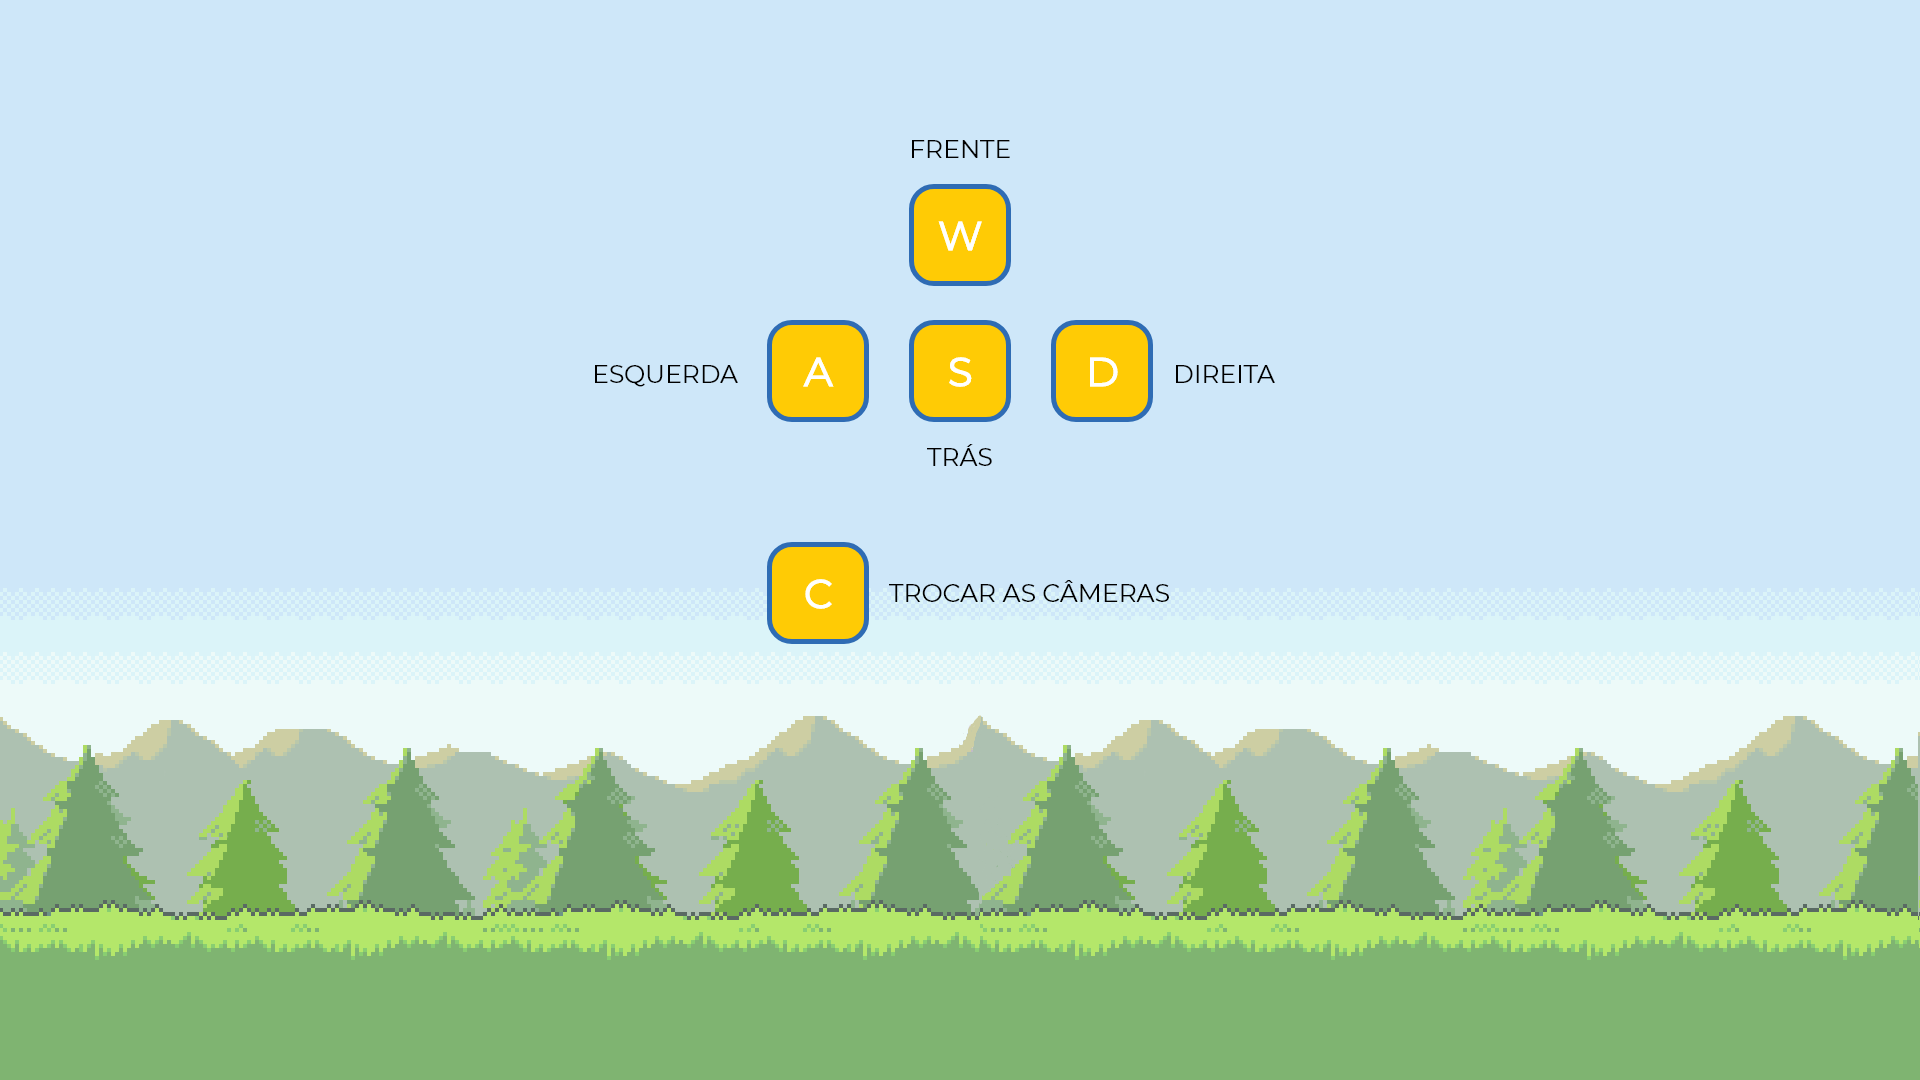
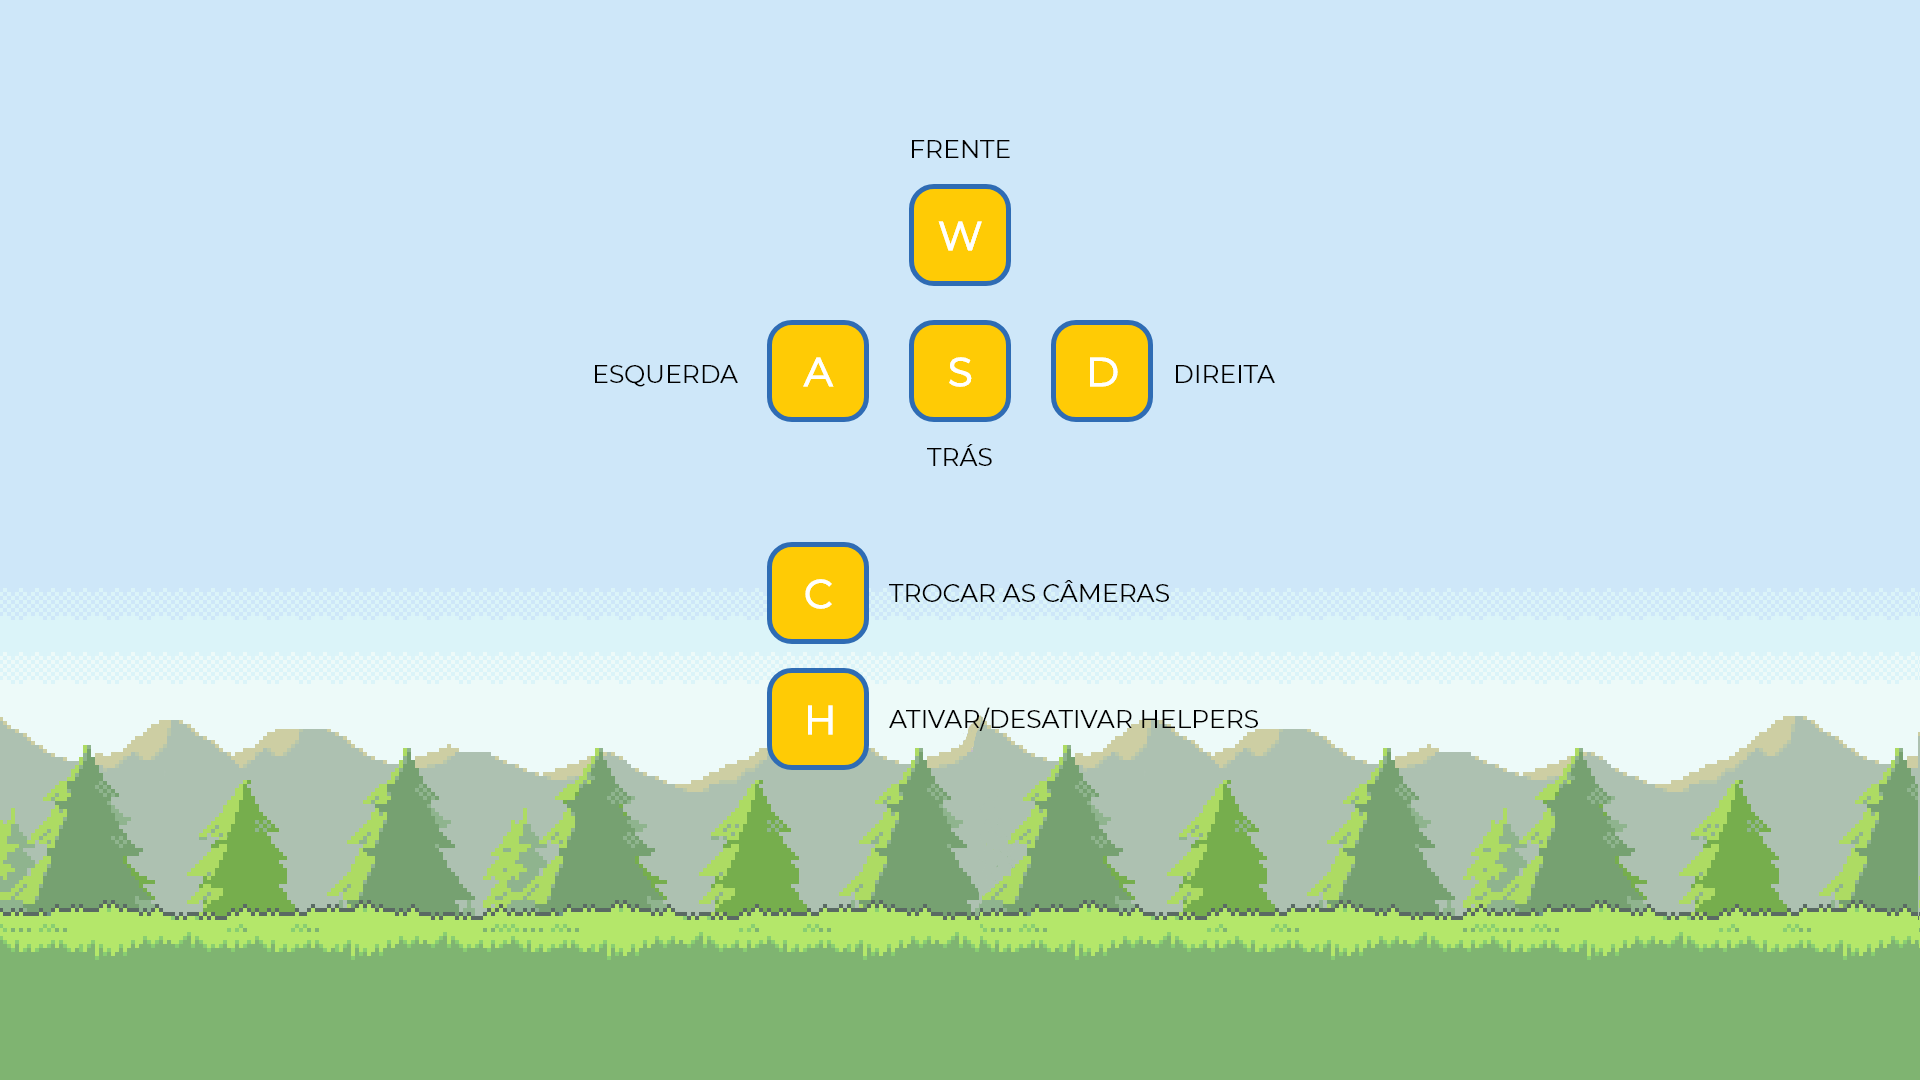
Função para ativar/desativar helpers

Changed region(s): [[0.375, 0.6111, 0.6562, 0.7333]]

diff --git a/main.js b/main.js
@@ -24,7 +24,7 @@ var controls, scene, renderer;
 // Luz e sombra
 var ambient;
 var hemiLight;
-var light, lightHelper, shadowHelper;
+var light;
 
 // Canvas
 var canvas = document.getElementById('modelo');
@@ -38,6 +38,9 @@ var magnemite3D = new THREE.Object3D;
 var pokeball3D  = new THREE.Object3D;
 var sun3D;
 var sunGlow;
+
+// Helpers
+var axesHelper, lightHelper, shadowHelper, bezierHelper;
 
 // Detecção de Colisão
 var boxes = [];
@@ -200,7 +203,7 @@ function init() {
     scene.add(light.target);
 
     // Helper da sombra
-    var shadowHelper = new THREE.CameraHelper( light.shadow.camera );
+    shadowHelper = new THREE.CameraHelper( light.shadow.camera );
     scene.add( shadowHelper );
 
     // Helper da luz
@@ -271,7 +274,7 @@ function init() {
     // =======================================================
 
     // !REMOVER: Helper para os eixos 
-    var axesHelper = new THREE.AxesHelper( 5 );
+    axesHelper = new THREE.AxesHelper( 5 );
     scene.add( axesHelper );
     //? The X axis is red. The Y axis is green. The Z axis is blue.
 
@@ -566,8 +569,8 @@ function init() {
     // Linha da curva
     var g = new THREE.BufferGeometry().setFromPoints( pontos );
     var m = new THREE.LineBasicMaterial( { color : 0xff0000 } );
-    var linhaCurva = new THREE.Line( g, m );
-    scene.add(linhaCurva);
+    bezierHelper = new THREE.Line( g, m );
+    scene.add(bezierHelper);
     
 
 
@@ -616,6 +619,9 @@ function init() {
     let skybox = new THREE.Mesh(skyboxGeo, materialArray);
 
     scene.add(skybox);
+
+
+    // TODO: Desativar Helpers no início
 
 }
 
@@ -725,6 +731,11 @@ function Teclado(e) {
         case 'C':
             // Muda a flag da câmera ativa
             cameraAtiva = !cameraAtiva;
+            break;
+
+        case 'H':
+            // Ativa/Desativa os helpers
+            toggleHelpers();
             break;
     
         default:
@@ -846,6 +857,51 @@ function criarGUILuz(gui, vector3, name, onChangeFn) {
 }
 
 
+/**
+ * TODO
+ * Função auxiliar para desativar os helpers na inicialização
+ */
+function desativarHelpers() {
+
+    // Helper dos eixos
+    axesHelper.visible = false;
+
+    // Helpers de iluminação
+    lightHelper.visible = false;
+    shadowHelper.visible = false;
+
+    // Helpers das Bounding Boxes
+    for (let i = 0; i < boxes.length; i++) {
+        var boxHelper = boxes[i].boxHelper;
+        boxHelper.visible = false;
+    }
+
+}
+
+/**
+ * Função auxiliar para ativar/desativar os helpers
+ */
+function toggleHelpers() {
+
+    // Helper dos eixos
+    axesHelper.visible = !axesHelper.visible;
+
+    // Helpers de iluminação
+    lightHelper.visible = !lightHelper.visible;
+    shadowHelper.visible = !shadowHelper.visible;
+
+    // Helper da Curva de Bezier
+    bezierHelper.visible = !bezierHelper.visible;
+
+    // Helpers das Bounding Boxes
+    for (let i = 0; i < boxes.length; i++) {
+        var boxHelper = boxes[i].boxHelper;
+        boxHelper.visible = !boxHelper.visible;
+    }
+
+}
+
+
 
 // -------------------------------------------------------
 // =======================================================
@@ -872,18 +928,19 @@ function adicionaBox(nomeObjeto, object) {
         }
     }
 
+    // Adiciona o Helper
+    var boxHelper = new THREE.Box3Helper( box, Math.random()*0xFFFFFF );
+    scene.add( boxHelper );
+
     // Cria o nó (nome, box) para adicionar ao vetor de 'boxes'
     let noBox = {
         nomeObjeto: nomeObjeto,
-        box: box
+        box: box,
+        boxHelper: boxHelper
     }
     
     // Adiciona ao vetor
     boxes.push(noBox);
-    
-    // Adiciona o Helper
-    var helper = new THREE.Box3Helper( box, Math.random()*0xFFFFFF );
-    scene.add( helper );
 
 }
 
